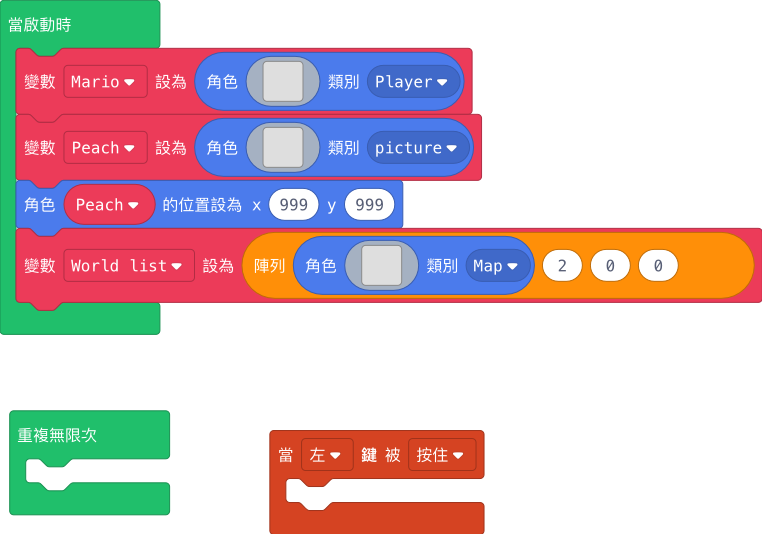
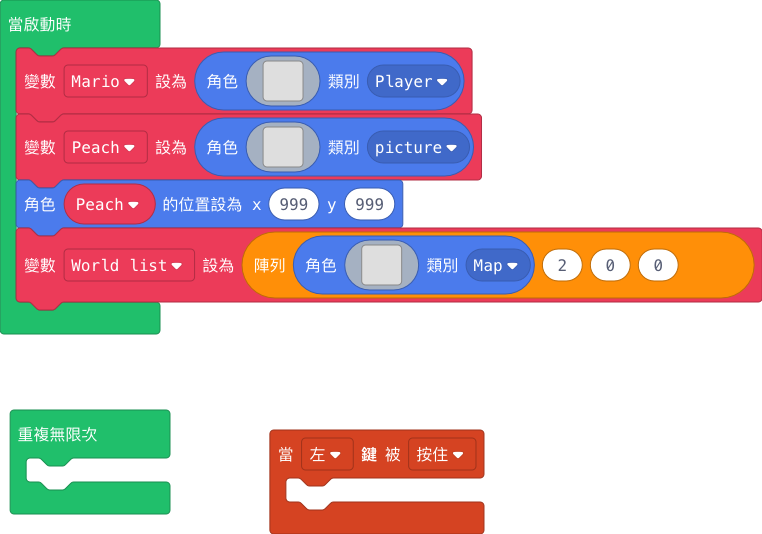
Update main.blocks, main.ts

diff --git a/main.ts b/main.ts
@@ -47,22 +47,22 @@ let Peach = sprites.create(img`
 `, SpriteKind.picture)
 Peach.setPosition(999, 999)
 let World_list = [sprites.create(img`
-. . . . . . . . . . . . . . . . 
-. . . . . . . . . . . . . . . . 
-. . . . . . . . . . . . . . . . 
-. . . . . . . . . . . . . . . . 
-. . . . . . . . . . . . . . . . 
-. . . . . . . . . . . . . . . . 
-. . . . . . . . . . . . . . . . 
-. . . . . . . . . . . . . . . . 
-. . . . . . . . . . . . . . . . 
-. . . . . . . . . . . . . . . . 
-. . . . . . . . . . . . . . . . 
-. . . . . . . . . . . . . . . . 
-. . . . . . . . . . . . . . . . 
-. . . . . . . . . . . . . . . . 
-. . . . . . . . . . . . . . . . 
-. . . . . . . . . . . . . . . . 
+4 d d d d d d d d f 4 d d d d 4 
+d 4 4 4 4 4 4 4 4 f d 4 4 4 4 f 
+d 4 4 4 4 4 4 4 4 f d 4 4 4 4 f 
+d 4 4 4 4 4 4 4 4 f d 4 4 4 4 f 
+d 4 4 4 4 4 4 4 4 f d f 4 4 4 f 
+d 4 4 4 4 4 4 4 4 f 4 f f f f 4 
+d 4 4 4 4 4 4 4 4 f d d d d d f 
+d 4 4 4 4 4 4 4 4 f d 4 4 4 4 f 
+d 4 4 4 4 4 4 4 4 f d 4 4 4 4 f 
+d 4 4 4 4 4 4 4 4 f d 4 4 4 4 f 
+d f 4 4 4 4 4 4 f d 4 4 4 4 4 f 
+d d f f 4 4 4 4 f d 4 4 4 4 4 f 
+d 4 d d f f f f d 4 4 4 4 4 4 f 
+d 4 4 4 d d d f d 4 4 4 4 4 4 f 
+d 4 4 4 4 4 4 f d 4 4 4 4 4 f f 
+4 f f f f f f 4 d f f f f f f 4 
 `, SpriteKind.Map), 2, 0, 0]
 forever(function () {
 	
